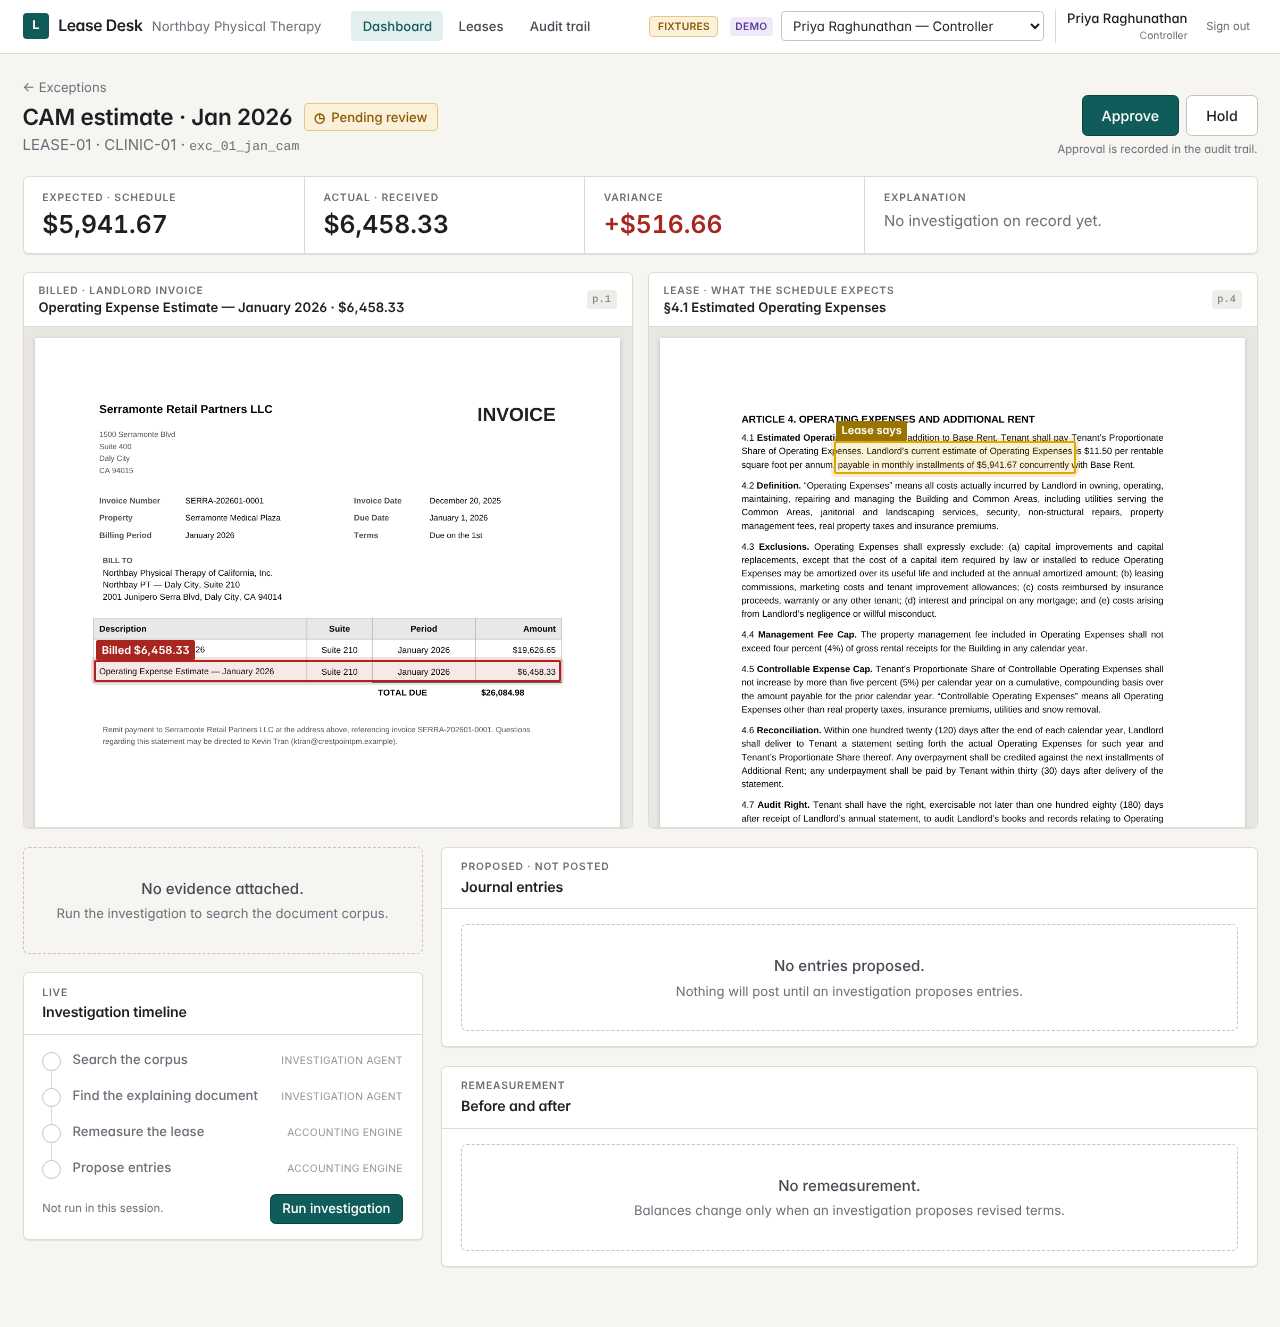
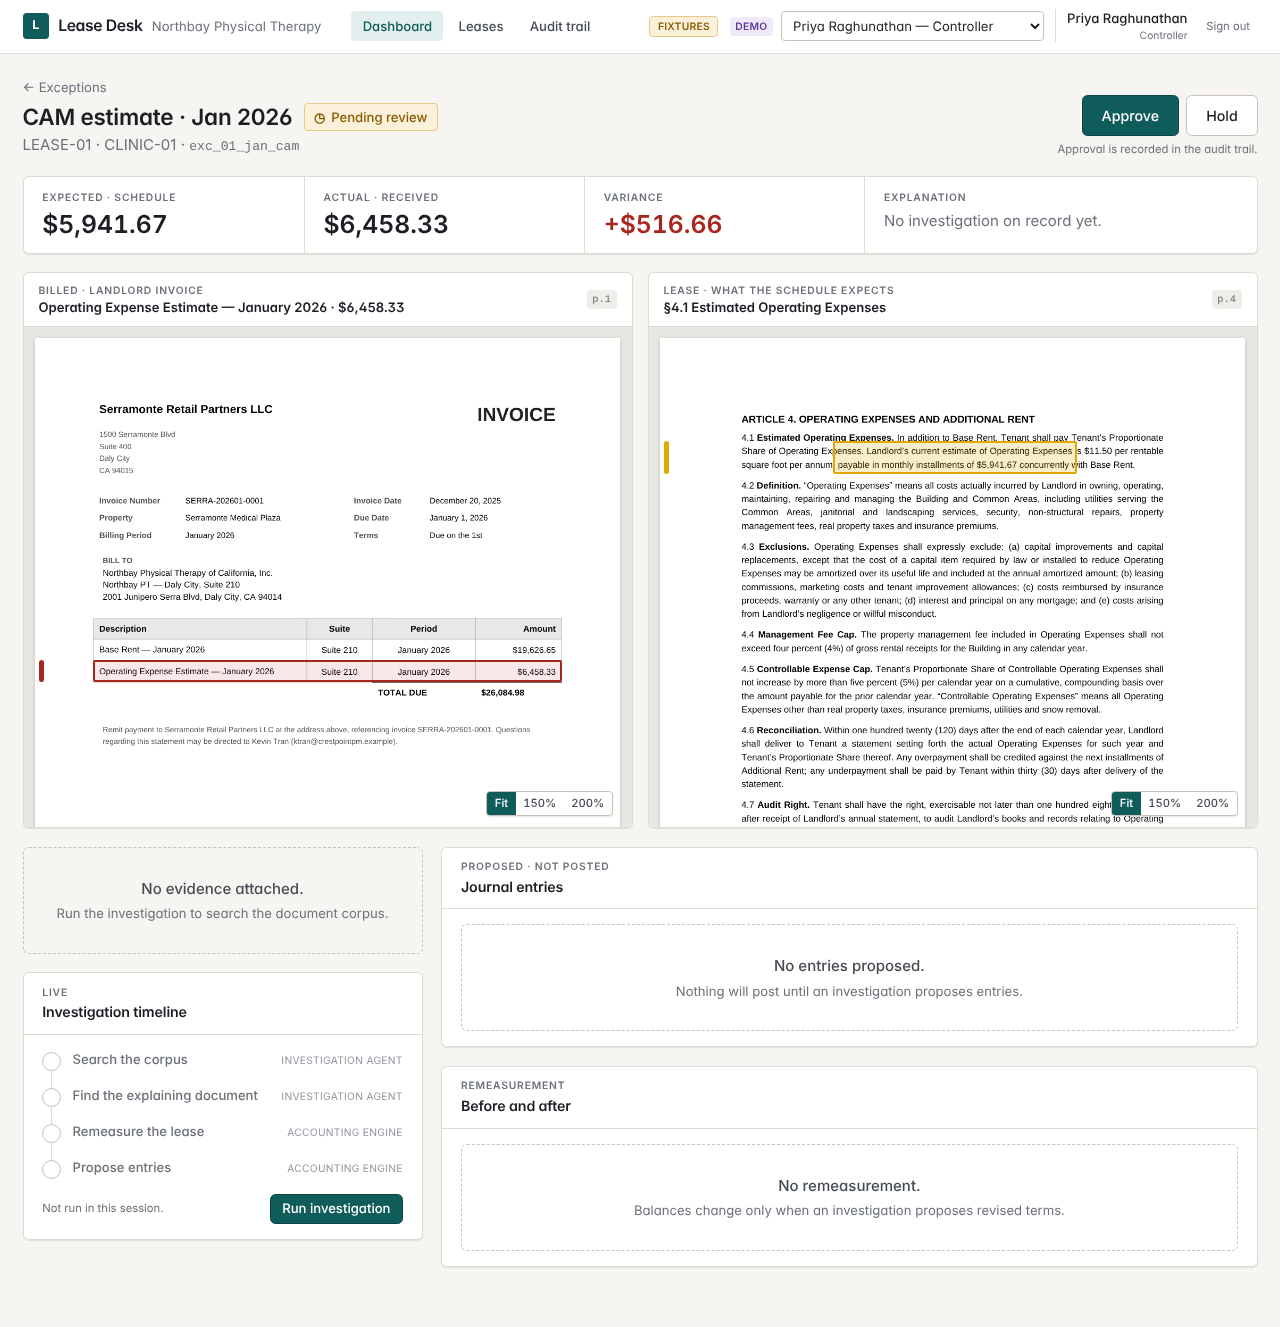
A8: zoomable PDF panes, README, screenshots
PDF pages render once at a fixed resolution and scale with CSS, so the
%-positioned citation box tracks the page through any resize; a margin
marker replaces the floating label that covered text above the box;
Fit/150%/200% zoom for the projector. README documents fixtures vs API
mode and every endpoint and field the UI expects beyond DESIGN.md §16.
Screenshots of each screen in fixtures mode at 1280 px.

Claude-Session: https://claude.ai/code/session_01Jxb7mV55V8wagWE1GhLyKw

diff --git a/frontend/components/PdfPage.tsx b/frontend/components/PdfPage.tsx
@@ -46,8 +46,10 @@ export default function PdfPage({ url, page, box, pageSize, tone = "cited", labe
     const wrap = wrapRef.current;
     if (!rendered || !box || !size || !sc || !wrap) return;
     const px = scaleBox(box, size, wrap.clientWidth);
-    sc.scrollTop = Math.max(0, px.top - sc.clientHeight / 3);
-    sc.scrollLeft = Math.max(0, px.left + px.width / 2 - sc.clientWidth / 2);
+    // keep the page header in view when the box already fits; otherwise centre it
+    const fits = px.top + px.height + 48 <= sc.clientHeight;
+    sc.scrollTop = fits ? 0 : Math.max(0, px.top - sc.clientHeight / 3);
+    sc.scrollLeft = zoom === 1 ? 0 : Math.max(0, px.left + px.width / 2 - sc.clientWidth / 2);
   }, [rendered, box, size, zoom]);
 
   const color = tone === "billed" ? "border-bad bg-bad/10" : "border-mark bg-mark/20";

diff --git a/frontend/README.md b/frontend/README.md
@@ -1,0 +1,106 @@
+# Lease Desk — web app
+
+Next.js (App Router) + TypeScript + Tailwind, TanStack Query and Table,
+react-pdf. The UI only formats and asserts: every figure comes from the API
+(or the frozen fixtures). Nothing in here does lease accounting.
+
+## Run it
+
+Node 22.
+
+```bash
+cd frontend
+npm ci
+```
+
+**Against the fixtures** (no backend needed):
+
+```bash
+NEXT_PUBLIC_USE_FIXTURES=1 npm run dev        # http://localhost:3000
+```
+
+Fixtures mode is also what you get automatically when the API cannot be
+reached at all: the first failed connection switches the session to fixtures
+and the header shows a **Fixtures** badge. HTTP errors from a live API (401,
+403, 500) are never masked by fixtures. In fixtures mode you are signed in as
+the controller (Priya Raghunathan); the demo role switcher lists the four
+datagen org-chart actors, and Approve / Hold change status for the session and
+append to the audit trail.
+
+**Against the API** (FastAPI on :8000, per DESIGN.md §18):
+
+```bash
+NEXT_PUBLIC_API_URL=http://localhost:8000 npm run dev
+```
+
+The browser calls the API directly with `credentials: "include"` (cookie
+sessions), so the API must allow CORS from `http://localhost:3000` with
+credentials. `NEXT_PUBLIC_*` variables are inlined at build time: set them
+before `npm run build` for `npm run start`.
+
+**Checks:**
+
+```bash
+npm run build && npm run lint && npm test
+```
+
+**Screenshots** (`docs/screenshots/`, 1280 px wide):
+
+```bash
+npm run build && npx next start -p 3011 &
+BASE_URL=http://localhost:3011 npm run screenshots
+```
+
+## Screens
+
+| Route | What |
+|---|---|
+| `/` | Dashboard: active leases, open exceptions, dollars held, portfolio liability; exceptions queue; latest agent activity |
+| `/leases` | TanStack Table, status counts as filter chips, clinic filter, search, sortable columns |
+| `/leases/[id]` | Lease facts, its exceptions, schedule (active / v1 / v2) |
+| `/exceptions/[id]` | The money screen: invoice with the billed line boxed next to the cited source (evidence or lease clause) boxed, calculation strip, evidence card, investigation timeline (SSE), journal entries with a balance assertion, before/after remeasurement, Approve / Hold from allowed-actions |
+| `/audit` | Audit trail with the "chain verified" badge, denied-attempt filter, `?lease_id=` |
+| `/login` | Email + password; demo quick sign-in when demo actors exist |
+
+## Where the fixture data comes from
+
+`lib/fixtures.ts` holds the DESIGN.md §16 JSON **verbatim** (`SECTION_16_*`).
+The rest is generated from the real code, never computed in TypeScript:
+
+| File | Source | Regenerate |
+|---|---|---|
+| `lib/fixtureSchedules.json` | `leasedesk.remeasure` on `data/leases/store-14.json` (the §16 lease: $559,665.35 → $1,002,921.05) | `python3 frontend/scripts/build_fixture_engine.py <datagen-out>` |
+| `lib/fixturePortfolio.json` | LEASE-02..05 from `datagen`, liability from `leasedesk.schedule` at 2026-06-30 | same |
+| `lib/fixtureDocs.json`, `public/fixtures/docs/*.pdf` | datagen lease and invoice PDFs; boxes located with PyMuPDF; the amendment email rendered so the §16 box lands on the quote | `python3 frontend/scripts/build_fixture_docs.py <jan-out> <jul-out>` |
+
+(`<datagen-out>` from `python -m datagen.build --out DIR [--month 2026-07]`.)
+
+## What the UI expects beyond §16
+
+The backend can add these; the UI degrades without each one.
+
+| Endpoint / field | Shape the UI expects | Without it |
+|---|---|---|
+| `GET /api/exceptions/{id}` → `clinic_id`, `charge_type` | as on the list shape | title says "Variance" |
+| `GET /api/exceptions/{id}` → `invoice_line` | `{doc_id, page, box, description, amount}` — the billed line | left pane empty state |
+| `GET /api/exceptions/{id}` → `lease_citation` | `{doc_id, page, box, label, quote}` — the clause the expected amount comes from | no "Lease clause" tab |
+| `investigation.liability_delta`, `rou_delta` | numbers from the engine | "Change" column filled from the SSE `remeasured` event, else hidden |
+| `investigation.liability_before` … `rou_after` may be `null` | for exceptions with no remeasurement | — |
+| `investigation` may be `null` | exception not investigated yet | — |
+| `GET /api/leases/{id}/schedule?version=` | `{lease_id, version, effective_from, active, opening_liability, opening_rou, rows: [{index, period, payment, interest, liability_open, liability_close, rou_open, rou_amortization, rou_close, straight_line_cost}]}`; no `version` = active; 404 for a missing version | empty state |
+| `GET /api/audit?lease_id=` | `{events: [{seq, at, actor_id, actor_name?, action, subject_type, subject_id, lease_id?, allowed, reason?, human_approved?, hash?, prev_hash?}], chain_verified, broken_at?}` | — |
+| `GET /api/documents/{doc_id}/pages` | `{doc_id, kind?, title?, pages: [{page, width, height}]}` (PDF points); must accept evidence `doc_id`s such as `eml_20260618`, not only sha256 | box scaled against the PDF's own page size |
+| `GET /api/documents/{doc_id}/file` | the PDF bytes (`application/pdf`) | quoted text shown instead of the page |
+| `GET /api/items/{id}/allowed-actions` | `{"actions": ["approve", "hold"]}`; called with the `exception_id` | — (fixtures: approve+hold for controller / regional manager, none for others or when balanced) |
+| `POST /api/exceptions/{id}/hold` | `{exception_id, status}` like approve | Hold errors |
+| `POST /api/exceptions/{id}/investigate` | SSE frames `data: {...}\n\n` on a **POST** response (read with fetch streaming) | — |
+| `GET /api/auth/me` | actor `{id, name, role, region_id, entity_id}`; **401** when signed out | — |
+| `POST /api/auth/login` | `{email, password}` → actor; 401 on bad credentials | — |
+| `POST /api/auth/logout` | 204 | session kept server-side |
+| `GET /api/auth/demo-actors` | actor list; 404 or 403 when demo mode is off (hides the switcher) | — |
+| `POST /api/auth/demo-switch` | `{actor_id}` → actor | — |
+| CORS | allow origin `http://localhost:3000` with credentials | browser blocks calls |
+
+Dashboard "dollars held" (sum of `|delta|` over open exceptions) and
+"portfolio liability" (sum of lease `liability`) are display aggregates summed
+in cents; a backend summary endpoint can replace them.
